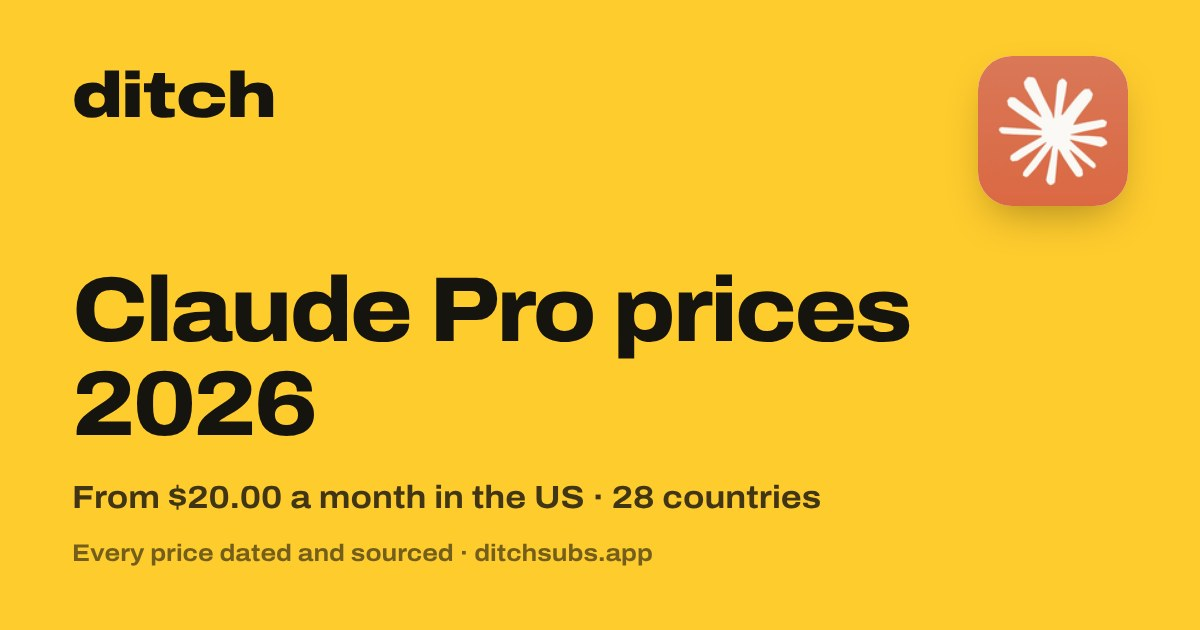
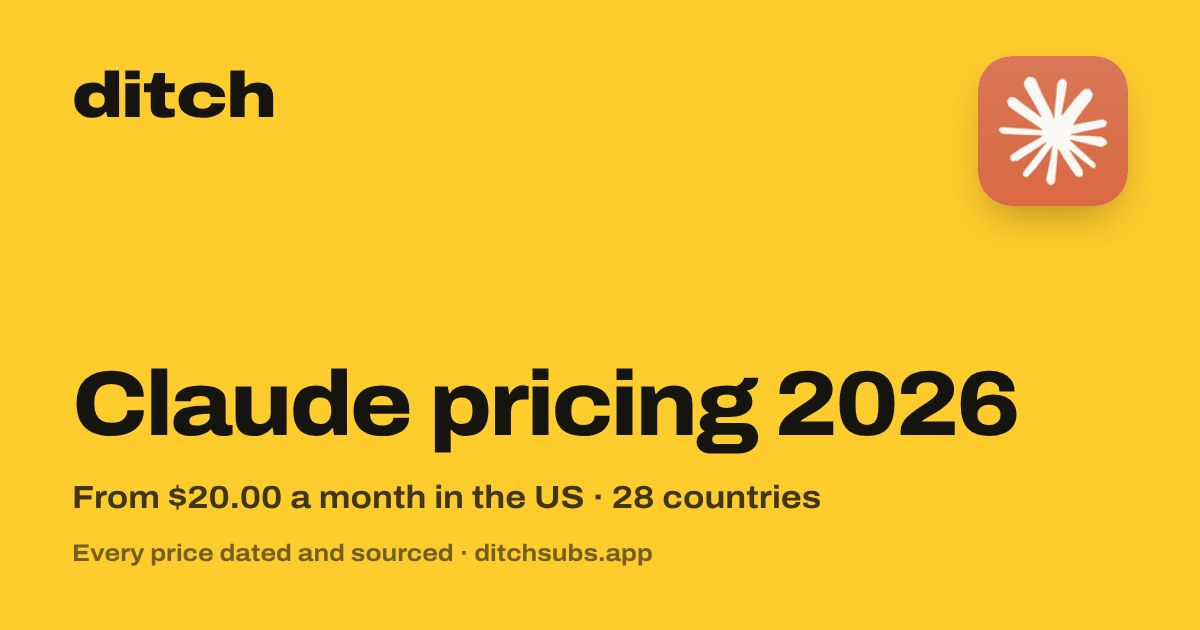
Titles and headings match what people search (DataForSEO); simpler service names; ChatGPT Go vs Plus order
- searchNames.ts: 26 price pages and 8 cancel guides use the searched words (Claude pricing, Costco membership cost, YouTube TV cost, iCloud storage plans...)
- Site names Claude, Dropbox, Notion, Grammarly, Proton (plans no longer read 'Claude Pro Max')
- ChatGPT Go vs Plus: cheaper plan first, 'What ChatGPT Plus adds'
- Share images redrawn; test checks every title key and length
- docs: titles-2026-11-15b.md before/after, STATUS, MANUAL-TESTS

Claude-Session: https://claude.ai/code/session_01Q8GFjWCZXwnj2nAcxjTkxh

Changed region(s): [[0.0617, 0.4222, 0.8633, 0.7238]]

diff --git a/web/src/lib/searchNames.ts b/web/src/lib/searchNames.ts
@@ -1,0 +1,48 @@
+/**
+ * How people actually search for each price page (DataForSEO, Google US, Nov 15; docs/website/seo-research-2026-11-15.md).
+ * title: the Google title (n = countries we have). h1: the page heading. who: the subject of the first sentence
+ * ("A Costco membership costs …"). Pages not listed keep the standard "X prices 2026: every plan, N countries".
+ * Owner approved the list on Nov 15. Only change an entry with fresh search data.
+ */
+type SearchName = { title: (n: number) => string; h1?: string; who?: string };
+const where = (n: number) => (n > 1 ? `${n} countries` : 'the US');
+export const PRICE_SEARCH: Record<string, SearchName> = {
+  'claude-pro': { title: (n) => `Claude pricing 2026: Pro, Max and Ultra, ${where(n)}`, h1: 'Claude pricing' },
+  costco: { title: (n) => `Costco membership cost 2026: every tier, ${where(n)}`, h1: 'Costco membership cost', who: 'A Costco membership' },
+  'youtube-tv': { title: () => 'YouTube TV cost 2026: every plan in the US', h1: 'YouTube TV cost' },
+  icloud: { title: (n) => `iCloud storage plans 2026: every price, ${where(n)}`, h1: 'iCloud storage plans', who: 'iCloud+ storage' },
+  nyt: { title: (n) => `New York Times subscription 2026: price in ${where(n)}`, h1: 'New York Times subscription price', who: 'A New York Times subscription' },
+  'amazon-prime': { title: (n) => `How much is Amazon Prime? 2026 prices, ${where(n)}` },
+  'uber-one': { title: (n) => `Uber One membership 2026: price in ${where(n)}`, h1: 'Uber One membership price', who: 'Uber One membership' },
+  'ps-plus': { title: () => 'PS Plus price 2026: Essential, Extra and Premium', h1: 'PS Plus price' },
+  'paramount-plus': { title: (n) => `How much is Paramount+? 2026 prices, ${where(n)}` },
+  spotify: { title: (n) => `How much is Spotify Premium? 2026, ${where(n)}` },
+  'xbox-game-pass': { title: (n) => `Xbox Game Pass cost 2026: every tier, ${where(n)}`, h1: 'Xbox Game Pass cost' },
+  'canva-pro': { title: () => 'Canva Pro price 2026: Pro and Business, US and UK' },
+  roblox: { title: (n) => `Roblox Premium 2026: price in ${where(n)}` },
+  'google-ai-pro': { title: () => 'Gemini price 2026: Google AI Plus, Pro and Ultra', h1: 'Gemini (Google AI) price', who: 'Gemini (Google AI Pro)' },
+  dropbox: { title: (n) => `Dropbox price 2026: Plus and every plan, ${where(n)}` },
+  babbel: { title: (n) => `Babbel cost 2026: every plan, ${where(n)}`, h1: 'Babbel cost' },
+  masterclass: { title: (n) => `MasterClass subscription 2026: price in ${where(n)}`, h1: 'MasterClass subscription price', who: 'A MasterClass subscription' },
+  notion: { title: (n) => `Notion pricing 2026: Plus and Business, ${where(n)}`, h1: 'Notion pricing' },
+  peloton: { title: () => 'Peloton membership cost 2026: App and All-Access', h1: 'Peloton membership cost', who: 'A Peloton membership' },
+  oura: { title: (n) => `Oura membership cost 2026: price in ${where(n)}`, h1: 'Oura membership cost', who: 'An Oura membership' },
+  perplexity: { title: (n) => `Perplexity pricing 2026: Pro and Max, ${where(n)}`, h1: 'Perplexity pricing' },
+  'copilot-pro': { title: (n) => `Copilot price 2026: Microsoft 365 Premium, ${where(n)}`, h1: 'Copilot (Microsoft 365 Premium) price', who: 'Copilot (Microsoft 365 Premium)' },
+  grammarly: { title: () => 'Grammarly cost 2026: Pro and every plan', h1: 'Grammarly cost' },
+  proton: { title: () => 'Proton pricing 2026: Mail, VPN, Pass and Unlimited', h1: 'Proton pricing' },
+  'discord-nitro': { title: (n) => `Discord Nitro cost 2026: every plan, ${where(n)}`, h1: 'Discord Nitro cost' },
+  economist: { title: (n) => `The Economist subscription 2026: price in ${where(n)}`, h1: 'The Economist subscription price', who: 'A subscription to The Economist' },
+};
+
+/** Cancel guides: the name people type after "how to cancel" (matches the renamed services above). */
+export const CANCEL_NAME: Record<string, string> = {
+  'claude-pro': 'Claude',
+  dropbox: 'Dropbox',
+  notion: 'Notion',
+  grammarly: 'Grammarly',
+  proton: 'Proton',
+  perplexity: 'Perplexity',
+  'google-ai-pro': 'Gemini (Google AI Pro)',
+  costco: 'Costco membership',
+};

diff --git a/web/src/app/prices/[slug]/page.tsx b/web/src/app/prices/[slug]/page.tsx
@@ -9,6 +9,7 @@ import { ToolCard } from '@/components/ToolCard';
 import { comparesFor, planLabel, toolsFor } from '@/lib/tools';
 import { PriceGrid, type GridCol, type GridRow } from '@/components/PriceGrid';
 import { priceText } from '@/lib/priceText';
+import { PRICE_SEARCH } from '@/lib/searchNames';
 import { COUNTRIES, COUNTRY, dateRange, inCountry, priceChanges, defaultPlan, formatDate, host, guideById, isAppStorePrice, isExtraPlan, neighbours, priceHubServices, pubDates, serviceById, verifiedPrices, type PriceRow, idOf, inWhere, slugOf } from '@/lib/data';
 import { CYCLE_WORD, formatMoney, monthlyMinor } from '@/lib/money';
 import { COMPANY, SITE, SUPPORT_EMAIL, fitDesc, pageTitle, shareImage } from '@/lib/site';
@@ -120,8 +121,8 @@ export async function generateMetadata({ params }: PageProps<'/prices/[slug]'>):
   const latest = rows.map((r) => r.checked).sort().pop()!;
   const share = shareImage(`p/${slugOf(s.id)}`, `${s.name} prices ${latest.slice(0, 4)}`, 'prices');
   return {
-    title: pageTitle(titleFor(s.name, latest.slice(0, 4), rows)),
-    description: fitDesc(`${summary(s.name, rows)} Main plans ${inWhere(rows)}, checked ${dateRange(rows.map((r) => r.checked))}.`, `Every price from ${s.name}’s own page.`, guideById(s.id) ? `Plus how to cancel ${s.name}.` : ''),
+    title: pageTitle(PRICE_SEARCH[s.id]?.title(rows.length) ?? titleFor(s.name, latest.slice(0, 4), rows)),
+    description: fitDesc(`${summary(PRICE_SEARCH[s.id]?.who ?? s.name, rows)} Main plans ${inWhere(rows)}, checked ${dateRange(rows.map((r) => r.checked))}.`, `Every price from ${s.name}’s own page.`, guideById(s.id) ? `Plus how to cancel ${s.name}.` : ''),
     alternates: { canonical: `/prices/${slugOf(s.id)}` },
     openGraph: { title: `${s.name} prices ${inWhere(rows)}`, url: `/prices/${slugOf(s.id)}`, type: 'article', siteName: 'Ditch: Subscription Tracker', locale: 'en_US', images: share.images },
     twitter: share.twitter,
@@ -151,7 +152,7 @@ export default async function PriceHub({ params }: PageProps<'/prices/[slug]'>) 
   const lead = ['US', 'GB'].map((c) => rows.find((r) => r.country === c)).filter((r): r is PriceRow => Boolean(r));
   const leadApp = lead.filter(isAppStorePrice);
   const appLine = !lead.length ? (appShare > 0.5 ? ' These are iPhone app prices.' : '') : leadApp.length === lead.length ? ' These are iPhone app prices.' : leadApp.length ? ` ${leadApp.map((r) => (r.country === 'GB' ? 'UK' : r.country)).join(' and ')} prices are from the iPhone app.` : '';
-  const ans = `${summary(s.name, rows)}${appLine}${taxNote} Checked ${dateRange(rows.map((r) => r.checked))}.`;
+  const ans = `${summary(PRICE_SEARCH[s.id]?.who ?? s.name, rows)}${appLine}${taxNote} Checked ${dateRange(rows.map((r) => r.checked))}.`;
   const others = neighbours(priceHubServices().filter((x) => x.category === s.category), s.id, 5);
 
   const ld = [
@@ -198,7 +199,7 @@ export default async function PriceHub({ params }: PageProps<'/prices/[slug]'>) 
             {appShare > 0.5 && leadApp.length === lead.length ? <span>App Store prices</span> : null}
           </div>
           <h1>
-            {s.name} price {latest.slice(0, 4)}
+            {PRICE_SEARCH[s.id]?.h1 ?? `${s.name} price`} {latest.slice(0, 4)}
           </h1>
           <p className="lead">{ans.replace(/ Checked [^.]*\.$/, '')}</p>
           <div className="g5-cta-row">

diff --git a/web/scripts/og-cards.ts b/web/scripts/og-cards.ts
@@ -3,6 +3,7 @@
 import { COUNTRIES, priceHubServices, publishedGuides, serviceById, slugOf, verifiedPrices, isExtraPlan, hasLogo } from '../src/lib/data';
 import { formatMoney } from '../src/lib/money';
 import { SERVICE_TOOLS, planLabel } from '../src/lib/tools';
+import { CANCEL_NAME, PRICE_SEARCH } from '../src/lib/searchNames';
 
 type Card = { file: string; logos: { id: string; logo: boolean; color: string; mono: string }[]; title: string; sub: string; foot: string };
 const lg = (id: string) => { const s = serviceById(id); return { id, logo: hasLogo(id), color: s?.color ?? '#6B6559', mono: s?.mono ?? s?.name.slice(0, 1) ?? '?' }; };
@@ -28,10 +29,10 @@ for (const s of priceHubServices()) {
   const r = rows.find((x) => x.country === 'US') ?? rows[0];
   const lo = [...r.plans].filter((p) => p.cycle === 'monthly' && !/student/i.test(p.name)).sort((a, b) => a.amountMinor - b.amountMinor)[0] ?? r.plans[0];
   const where = r.country === 'US' ? 'in the US' : `in ${COUNTRIES.find((c) => c.code === r.country)?.name}`;
-  cards.push({ file: `p/${slugOf(s.id)}`, logos: [lg(s.id)], title: `${s.name} prices 2026`, sub: `From ${money(lo.amountMinor, r.currency, r.country)} ${lo.cycle === 'yearly' ? 'a year' : 'a month'} ${where}${rows.length > 1 ? ` · ${rows.length} countries` : ''}`, foot: 'Every price dated and sourced' });
+  cards.push({ file: `p/${slugOf(s.id)}`, logos: [lg(s.id)], title: `${PRICE_SEARCH[s.id]?.h1 ?? `${s.name} prices`} 2026`, sub: `From ${money(lo.amountMinor, r.currency, r.country)} ${lo.cycle === 'yearly' ? 'a year' : 'a month'} ${where}${rows.length > 1 ? ` · ${rows.length} countries` : ''}`, foot: 'Every price dated and sourced' });
 }
 for (const g of publishedGuides()) {
-  cards.push({ file: `g/${slugOf(g.id)}`, logos: [lg(g.id)], title: `How to cancel ${g.name.replace(/\s*\(.*\)$/, '')}`, sub: 'The official steps, checked and dated', foot: 'Every step from the official help page' });
+  cards.push({ file: `g/${slugOf(g.id)}`, logos: [lg(g.id)], title: `How to cancel ${CANCEL_NAME[g.id] ?? g.name.replace(/\s*\(.*\)$/, '')}`, sub: 'The official steps, checked and dated', foot: 'Every step from the official help page' });
 }
 cards.push({ file: 'prices', logos: [], title: `Subscription prices in ${COUNTRIES.length} countries`, sub: 'Every price dated and sourced', foot: '' });
 cards.push({ file: 'compare', logos: ['chatgpt-plus', 'claude-pro', 'netflix', 'spotify'].map(lg), title: 'Compare subscriptions', sub: 'Price and what you get, side by side', foot: '' });

diff --git a/web/src/app/cancel/[slug]/page.tsx b/web/src/app/cancel/[slug]/page.tsx
@@ -12,6 +12,7 @@ import { PayTabs, type PayTab } from '@/components/guide/PayTabs';
 import { StepArt, stepUrl, tapLabel } from '@/components/guide/StepArt';
 import { APPLE_SOURCE, formatDate, freshness, guideById, neighbours, priceFor, priceHubServices, pubDates, publicNotes, publishedGuides, serviceById, idOf, slugOf } from '@/lib/data';
 import { COMPANY, SITE, SUPPORT_EMAIL, pageTitle, shareImage } from '@/lib/site';
+import { CANCEL_NAME } from '@/lib/searchNames';
 import { JsonLd } from '@/components/JsonLd';
 
 
@@ -34,7 +35,7 @@ function guideTitle(g: NonNullable<ReturnType<typeof guideById>>) {
   // One clean pattern (owner, Nov 15): "How to cancel Netflix in 2026 | Ditch". Platform guides keep their words;
   // names like "Kindle+ (Kindle Unlimited)" use the name people search.
   const platform = /^subscriptions on/i.test(g.name);
-  const name = platform ? g.name.replace(/\s*\(.*\)/, '') : g.name.replace(/^.+?\s*\((.+)\)$/, '$1');
+  const name = CANCEL_NAME[g.id] ?? (platform ? g.name.replace(/\s*\(.*\)/, '') : g.name.replace(/^.+?\s*\((.+)\)$/, '$1'));
   return pageTitle(`How to cancel ${name} in ${year}`);
 }
 
@@ -258,7 +259,7 @@ export default async function CancelGuide({ params }: PageProps<'/cancel/[slug]'
           <div className="kick">
             <Logo id={g.id} size={40} />
           </div>
-          <h1>How to cancel {g.name}</h1>
+          <h1>How to cancel {CANCEL_NAME[g.id] ?? g.name}</h1>
           <p className="lead">{withPhones(quick)}</p>
           {fresh !== 'fresh' ? <p className="stale">Last checked {formatDate(g.checkedOn)}. {g.name} may have changed its steps since. We re-check every 90 days.</p> : null}
           <div className="g5-cta-row">

diff --git a/web/src/lib/compare.test.ts b/web/src/lib/compare.test.ts
@@ -50,3 +50,16 @@ describe('share images', () => {
   it('every page has one', () => expect(want.filter((f) => !(OG as string[]).includes(f))).toEqual([]));
   it('every listed image exists', () => expect((OG as string[]).filter((f) => !existsSync(join(__dirname, '../../public/og', `${f}.jpg`)))).toEqual([]));
 });
+
+import { CANCEL_NAME, PRICE_SEARCH } from './searchNames';
+import { guideById } from './data';
+
+/** Search-matched titles (Nov 15) only work when keyed by the real service id. */
+describe('search names', () => {
+  it('every price title belongs to a live price page and fits in 60 characters', () => {
+    const hubs = new Set(priceHubServices().map((s) => s.id));
+    expect(Object.keys(PRICE_SEARCH).filter((id) => !hubs.has(id))).toEqual([]);
+    expect(Object.entries(PRICE_SEARCH).filter(([, v]) => v.title(29).length > 60).map(([k]) => k)).toEqual([]);
+  });
+  it('every cancel name belongs to a guide', () => expect(Object.keys(CANCEL_NAME).filter((id) => !guideById(id))).toEqual([]));
+});

diff --git a/docs/website/titles-2026-11-15b.md b/docs/website/titles-2026-11-15b.md
@@ -1,0 +1,41 @@
+# Search-matched titles (Nov 15, evening)
+
+Owner approved. Based on DataForSEO search volumes (docs/website/seo-research-2026-11-15.md). Web addresses unchanged.
+
+| Page | Before | After |
+|---|---|---|
+| `/tools/chatgpt-plus-vs-go` | ChatGPT Plus vs Go 2026: price and what you get  | ChatGPT Go vs Plus 2026: price and what you get  |
+| `/cancel/costco` | How to cancel Costco in 2026  | How to cancel Costco membership in 2026  |
+| `/cancel/claude-pro` | How to cancel Claude Pro in 2026  | How to cancel Claude in 2026  |
+| `/cancel/google-ai-pro` | How to cancel Google AI Pro in 2026  | How to cancel Gemini (Google AI Pro) in 2026  |
+| `/cancel/dropbox` | How to cancel Dropbox Plus in 2026  | How to cancel Dropbox in 2026  |
+| `/cancel/notion` | How to cancel Notion Plus in 2026  | How to cancel Notion in 2026  |
+| `/cancel/grammarly` | How to cancel Grammarly Pro in 2026  | How to cancel Grammarly in 2026  |
+| `/cancel/perplexity` | How to cancel Perplexity Pro in 2026  | How to cancel Perplexity in 2026  |
+| `/cancel/proton` | How to cancel Proton Unlimited in 2026  | How to cancel Proton in 2026  |
+| `/prices/amazon-prime` | Amazon Prime prices 2026: every plan, 15 countries  | How much is Amazon Prime? 2026 prices, 15 countries  |
+| `/prices/spotify` | Spotify prices 2026: every plan, 29 countries  | How much is Spotify Premium? 2026, 29 countries  |
+| `/prices/icloud` | iCloud+ prices 2026: every plan, 29 countries  | iCloud storage plans 2026: every price, 29 countries  |
+| `/prices/xbox-game-pass` | Xbox Game Pass prices 2026: every plan, 25 countries  | Xbox Game Pass cost 2026: every tier, 25 countries  |
+| `/prices/playstation-plus` | PlayStation Plus prices 2026: every plan  | PS Plus price 2026: Essential, Extra and Premium  |
+| `/prices/paramount-plus` | Paramount+ prices 2026: every plan, 11 countries  | How much is Paramount+? 2026 prices, 11 countries  |
+| `/prices/canva-pro` | Canva Pro prices 2026: every plan, 2 countries  | Canva Pro price 2026: Pro and Business, US and UK  |
+| `/prices/uber-one` | Uber One prices 2026: every plan, 17 countries  | Uber One membership 2026: price in 17 countries  |
+| `/prices/costco` | Costco prices 2026: every plan, 4 countries  | Costco membership cost 2026: every tier, 4 countries  |
+| `/prices/claude-pro` | Claude Pro prices 2026: every plan, 28 countries  | Claude pricing 2026: Pro, Max and Ultra, 28 countries |
+| `/prices/google-ai-pro` | Google AI Pro prices 2026: every plan, 27 countries  | Gemini price 2026: Google AI Plus, Pro and Ultra  |
+| `/prices/youtube-tv` | YouTube TV prices 2026 in the US  | YouTube TV cost 2026: every plan in the US  |
+| `/prices/dropbox` | Dropbox Plus prices 2026: every plan, 23 countries  | Dropbox price 2026: Plus and every plan, 23 countries |
+| `/prices/new-york-times` | New York Times prices 2026: every plan, 15 countries  | New York Times subscription 2026: price in 15 countries |
+| `/prices/notion` | Notion Plus prices 2026: every plan, 24 countries  | Notion pricing 2026: Plus and Business, 24 countries  |
+| `/prices/grammarly` | Grammarly Pro prices 2026: every plan, 4 countries  | Grammarly cost 2026: Pro and every plan  |
+| `/prices/discord-nitro` | Discord Nitro prices 2026: every plan, 22 countries  | Discord Nitro cost 2026: every plan, 22 countries  |
+| `/prices/perplexity` | Perplexity Pro prices 2026: every plan, 26 countries  | Perplexity pricing 2026: Pro and Max, 26 countries  |
+| `/prices/copilot-pro` | Copilot Pro prices 2026: every plan, 24 countries  | Copilot price 2026: Microsoft 365 Premium, 24 countries |
+| `/prices/peloton` | Peloton App prices 2026: every plan, 6 countries  | Peloton membership cost 2026: App and All-Access  |
+| `/prices/babbel` | Babbel prices 2026: every plan, 24 countries  | Babbel cost 2026: every plan, 24 countries  |
+| `/prices/masterclass` | MasterClass prices 2026: every plan, 22 countries  | MasterClass subscription 2026: price in 22 countries  |
+| `/prices/roblox` | Roblox Premium prices 2026: every plan, 21 countries  | Roblox Premium 2026: price in 21 countries  |
+| `/prices/economist` | The Economist prices 2026: every plan, 22 countries  | The Economist subscription 2026: price in 22 countries |
+| `/prices/oura` | Oura Membership prices 2026: every plan  | Oura membership cost 2026: price in 17 countries  |
+| `/prices/proton` | Proton Unlimited prices 2026: every plan  | Proton pricing 2026: Mail, VPN, Pass and Unlimited  |

diff --git a/docs/STATUS.md b/docs/STATUS.md
@@ -11,6 +11,7 @@ _Update this at the end of every session._
   - Full US/UK tiers for AI, video, music, gaming, Apple and more (Claude Max and Ultra, ChatGPT Pro 100/200/500, Gemini Ultra 5x/20x, Disney+/Hulu bundles, Spotify Student, Deezer website prices…). Price pages put bundles and live TV in their own section.
   - **Grok (owner, Nov 15: use the website plans):** US Grok prices are now xAI's website plans (Plus $8, Premium $30, Super $100, Ultra $200; yearly $80/$300/$1,000/$2,000; grok.com's first-month 50% offer left out). Other countries stay on the iPhone app's SuperGrok list, and the price page says so. The site calls the service "Grok". ChatGPT/Claude/Gemini vs Grok are live (vs Grok Premium), plus Grok Plus vs Premium and Grok Premium vs Super. 43 comparison pages in total.
   - **AI search and SEO pass (Nov 15, final):** every comparison, price page and cancel guide has its own share image (1200×630, real logos and US prices; `npm run og` redraws them after price changes, and a test fails if one is missing). IndexNow is set up (`node web/scripts/indexnow.mjs` after a deploy; 192 URLs accepted Nov 15), which tells Bing, and through it ChatGPT search and Copilot, about changes within minutes. Fade-ins show at once for anything already on screen, and hub pages (/tools, /compare) don't fade. Live: 192 pages, SEO audit 0 errors, 0 warnings; Lighthouse accessibility, best practices and SEO 100 on every page checked, performance 92–98 on phones and 98–99 on desktop; 0 layout issues at 320, 390 and 1280 px.
+  - **Search-matched titles (Nov 15, evening, owner approved):** 35 titles and headings now use the words people search, from DataForSEO volumes (before/after in docs/website/titles-2026-11-15b.md). Examples: "Claude pricing 2026: Pro, Max and Ultra", "Costco membership cost", "YouTube TV cost", "iCloud storage plans", "How much is Amazon Prime?". The site now calls Claude Pro, Dropbox Plus, Notion Plus, Grammarly Pro and Proton Unlimited just Claude, Dropbox, Notion, Grammarly and Proton (plans read "Claude Max", not "Claude Pro Max"). ChatGPT Go vs Plus is in the right order. Lists live in web/src/lib/searchNames.ts; a test checks every entry. IndexNow pinged for the 36 changed pages.
   - **Waiting:** 3 YouTube pages wait for a US YouTube Premium price (the website blocks our cloud browser). Duolingo prices: the App Store list doesn't say which price is which plan.
   - Data notes: Deezer US moved to website prices ($11.99, was the $14.99 App Store price). Audible's top US plan now uses id `premium` like the other countries. Prime Video Ultra ($4.99) is quoted from Amazon's news page but isn't in the price table yet.
 - ✅ **Nov 15 (live): 29 countries and 59 cancel guides.**

diff --git a/docs/MANUAL-TESTS.md b/docs/MANUAL-TESTS.md
@@ -439,6 +439,9 @@ Why: an app feels premium when the bad moments are handled well, not only the ha
 - [ ] Footer → Prices column has "Price increases".
 
 ### W8. Comparison pages and every tier (Nov 15, late)
+- [ ] Browser tab titles: /prices/claude-pro reads "Claude pricing 2026: Pro, Max and Ultra, 28 countries"; /prices/costco "Costco membership cost 2026…"; /prices/icloud "iCloud storage plans 2026…". Page heading on /prices/claude-pro says "Claude pricing 2026" and the plans say Claude Pro, Claude Max, Claude Ultra.
+- [ ] /tools/chatgpt-plus-vs-go: title "ChatGPT Go vs Plus", Go on the left, "What ChatGPT Plus adds" table.
+- [ ] /cancel/claude-pro heading: "How to cancel Claude".
 - [ ] Home on iPhone and laptop: the header is yellow over the yellow hero. Scroll down: it stays yellow until the hero has gone under it, then fades to cream. Scroll back up: it fades to yellow as soon as the hero comes back. No cream bar over yellow, no snap.
 - [ ] Laptop home hero: the phone's two round buttons at the bottom edge show a torch (left) and a camera (right), half hidden by the edge.
 - [ ] Laptop: the menu reads Cancel guides · Prices · Compare · Free tools · Pricing in one row. Nothing wraps onto two lines. On an iPad or a narrow window it turns into the ☰ button.
